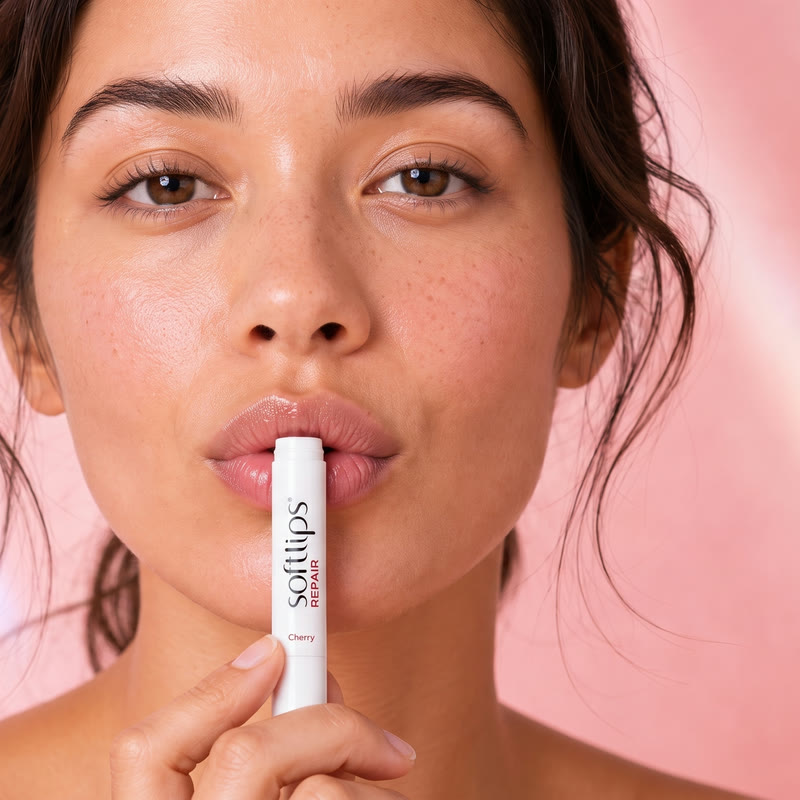
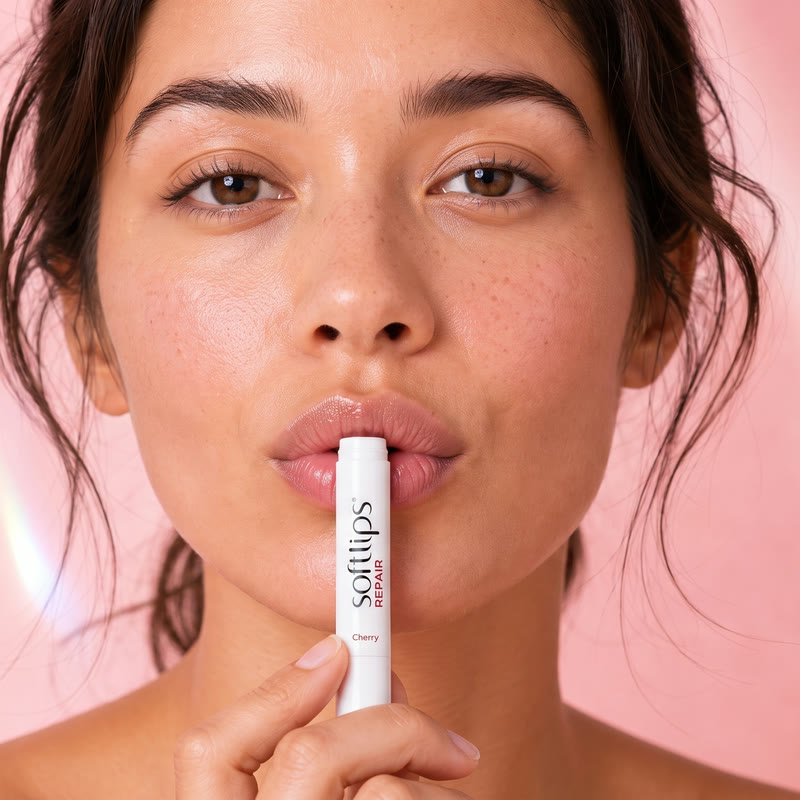
Strategist: recenter Recent Work image crops on their subjects

diff --git a/strategist/index.html b/strategist/index.html
@@ -307,10 +307,10 @@
     <div class="eyebrow">Recent Work</div>
     <h2>See it, don't take our word for it.</h2>
     <div class="proof-grid">
-      <div class="proof"><img src="work-avatars.jpg?v=1" alt="Custom-designed superhero avatar character on a cinematic set"><div class="pt"><b>Custom Designed Avatars</b><span>Movie-style trailers starring avatar characters we design from scratch — cast, styled, and directed for your brand.</span></div></div>
-      <div class="proof"><img src="work-realestate.jpg?v=1" alt="AI real-estate avatar standing beside a sold sign in front of a home"><div class="pt"><b>Real Estate Agent Marketing</b><span>Cinematic agent intros and property tours that make you the name every buyer and seller remembers.</span></div></div>
-      <div class="proof"><img src="work-product.jpg?v=1" alt="Beauty product commercial still with model applying lip balm"><div class="pt"><b>Product Marketing</b><span>Your product, lit and styled like a national ad campaign — scroll-stopping films for launches and promotions.</span></div></div>
-      <div class="proof"><img src="work-interactive.jpg?v=1" alt="Interactive talking avatar on a live video call"><div class="pt"><b>Talking Interactive Avatars</b><span>Avatars that talk — answering questions, capturing leads, and selling for you 24/7.</span></div></div>
+      <div class="proof"><img src="work-avatars.jpg?v=2" alt="Custom-designed superhero avatar character on a cinematic set"><div class="pt"><b>Custom Designed Avatars</b><span>Movie-style trailers starring avatar characters we design from scratch — cast, styled, and directed for your brand.</span></div></div>
+      <div class="proof"><img src="work-realestate.jpg?v=2" alt="AI real-estate avatar standing beside a sold sign in front of a home"><div class="pt"><b>Real Estate Agent Marketing</b><span>Cinematic agent intros and property tours that make you the name every buyer and seller remembers.</span></div></div>
+      <div class="proof"><img src="work-product.jpg?v=2" alt="Beauty product commercial still with model applying lip balm"><div class="pt"><b>Product Marketing</b><span>Your product, lit and styled like a national ad campaign — scroll-stopping films for launches and promotions.</span></div></div>
+      <div class="proof"><img src="work-interactive.jpg?v=2" alt="Interactive talking avatar on a live video call"><div class="pt"><b>Talking Interactive Avatars</b><span>Avatars that talk — answering questions, capturing leads, and selling for you 24/7.</span></div></div>
     </div>
     <p class="proof-note"><b>Client work stays confidential — that's part of the service.</b> Most of our clients keep their digital twins private, so what you see here is representative. Full case studies are shared privately during your strategy meeting.</p>
   </div>
